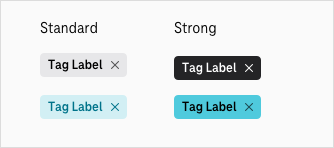
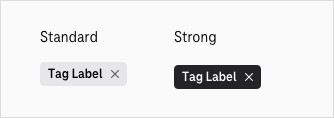
docs(tags): text and illustration

diff --git a/packages/storybook-vue/stories/components/tag/tag_de.md b/packages/storybook-vue/stories/components/tag/tag_de.md
@@ -1,8 +1,13 @@
+<div style="display: inline-flex; align-items: center; justify-content: space-between; width: 100%;">
+    <h1>Tags</h1>
+    <img src="assets/aa.png" alt="Accessible AA" />
+</div>
+
 Tags funktionieren wie Etiketten. Sie lenken die Aufmerksamkeit der Nutzer\*innen auf markierte und kategorisierte Inhalte.
 
 ## Allgemein
 
-Tags bestehen aus relevanten Schlüsselwörtern in einem Container. Ein statischer Tag lässt sich nicht entfernen und weist auf eine Kategorie oder ein Attribut hin. Ein interaktiver Tag kann hingegen ausgeblendet werden und zeigt beispielsweise gewählte Filter an.
+Tags bestehen aus relevanten Schlüsselwörtern in einem Container. Ein statischer Tag lässt weist auf eine Kategorie oder ein Attribut hin und lässt sich nicht entfernen. Ein schließbarer Tag kann ausgeblendet werden.
 
 ### Verwende einen Tag, um
 
@@ -31,23 +36,11 @@ Ein interaktiver Tag bietet die Möglichkeit, den Tag per Klick/Tap auf das Icon
 
 ## Varianten
 
-### Farben
-
 ![Tag-Strong-Standard.png](assets/3_components/tag/tag-strong-standard.png)
 
-Die Standardfarbe ist Dunkelgrau mit schwarzem Text. Jede definierte Farbe hat eine Standard- und eine markante Version mit dunklerem Hintergrund. Die Version „Strong“ eignet sich für eine stärkere Betonung. Alle Farbvarianten sind für Lesbarkeit und Barrierefreiheit optimiert.
+Scale enthält die Varianten "Standard" und "Strong". Die Variante "Strong" eignet sich für eine stärkere Betonung.
 
-Definierte Farben:
-
-- Teal
-- Olive
-- Violet
-- Brown
-- Cyan
-- Yellow
-- Green
-- Orange
-- Red
+### Farben
 
 Für Farbcodierungen oder um eine andere visuelle Wirkung zu erreichen, kannst du eine eigene Farbe wählen. Wichtig ist, dass das Farbschema verständlich ist und allen Anforderungen der Barrierefreiheit entspricht.
 

diff --git a/packages/storybook-vue/stories/components/tag/tag.md b/packages/storybook-vue/stories/components/tag/tag.md
@@ -1,3 +1,8 @@
+<div style="display: inline-flex; align-items: center; justify-content: space-between; width: 100%;">
+    <h1>Tags</h1>
+    <img src="assets/aa.png" alt="Accessible AA" />
+</div>
+
 Tags draw the user's attention to certain content elements. They represent a category or an attribute.
 
 ## General
@@ -35,24 +40,12 @@ An interactive tag offers the possibility to remove the tag by clicking/tapping 
 
 ## Variants
 
-### Colors
-
 ![Tag-Strong-Standard.png](assets/3_components/tag/tag-strong-standard.png)
 
 The standard color for the tag is black text on light grey. Each defined color has a standard and stronger version with a darker background. Use the stronger version to provide more emphasis.
 All standard and strong colors are optimized for legibility and accessibility.
 
-Defined colors:
-
-- Teal
-- Olive
-- Violet
-- Brown
-- Cyan
-- Yellow
-- Green
-- Orange
-- Red
+### Colors
 
 You can choose your own color for color coding or to achieve a different visual effect. It's important that the color scheme is easily understandable and meets all accessibility requirements.
 
